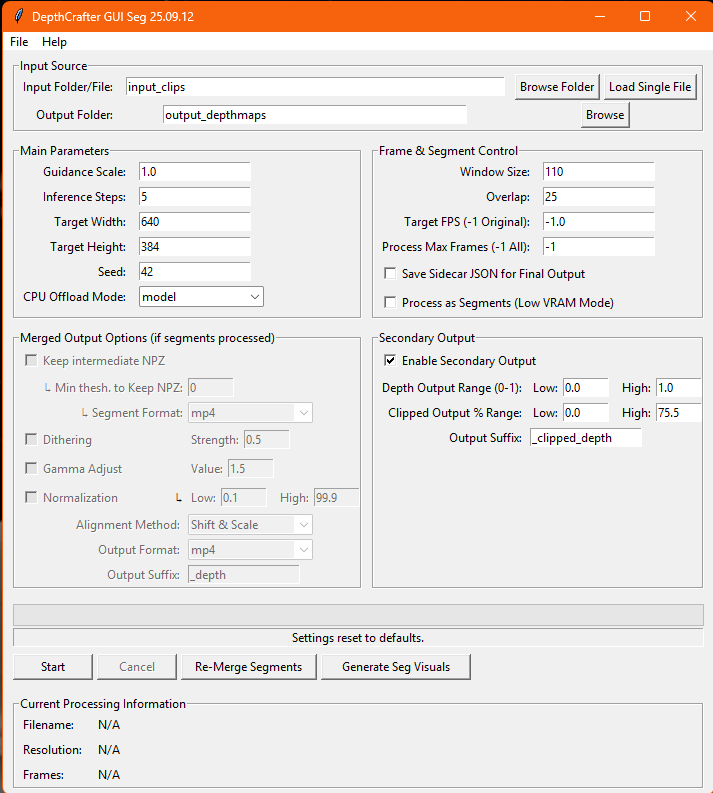
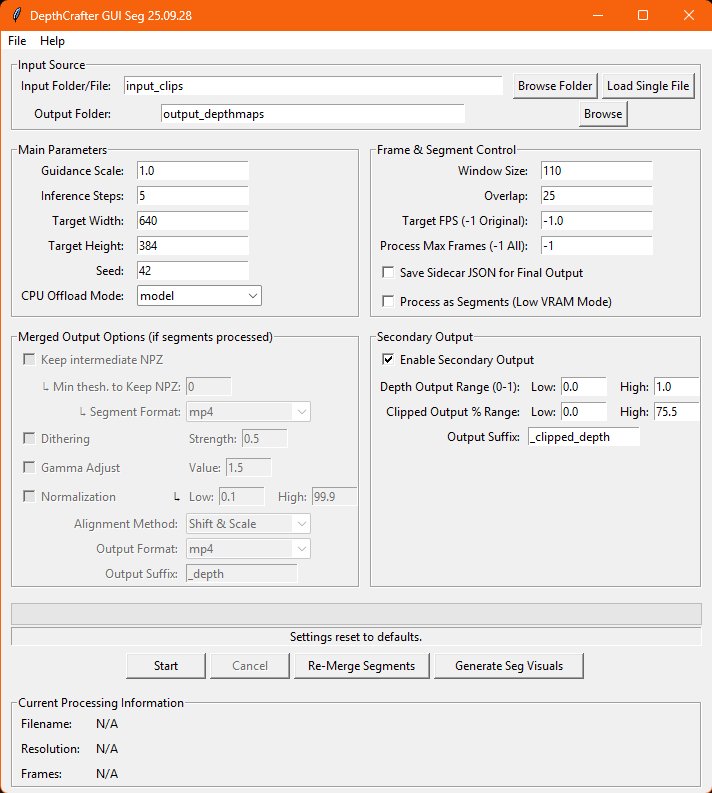
center buttons

diff --git a/depthcrafter_gui_seg.py b/depthcrafter_gui_seg.py
@@ -54,7 +54,7 @@ except ImportError:
 
 from typing import Optional, Tuple, List, Dict
 
-GUI_VERSION = "25.09.12"
+GUI_VERSION = "25.09.28"
 _HELP_TEXTS = {}
 
 def _create_hover_tooltip(widget, help_key):
@@ -612,6 +612,10 @@ class DepthCrafterGUI:
         ctrl_frame = tk.Frame(self.root)
         ctrl_frame.pack(pady=(5, 10), padx=10, fill="x", expand=False)
 
+        # --- Container frame for buttons to center them ---
+        button_container_frame = tk.Frame(ctrl_frame)
+        button_container_frame.pack(anchor="center") # Centers the button_container_frame within ctrl_frame
+
         # --- Current Processing Information Frame ---
         processing_info_frame = tk.LabelFrame(self.root, text="Current Processing Information")
         processing_info_frame.pack(fill="x", padx=10, pady=5, expand=False)
@@ -642,22 +646,22 @@ class DepthCrafterGUI:
         _create_hover_tooltip(lbl_frames, "current_frames") # Add tooltip
         row_idx += 1
 
-        start_frame = tk.Frame(ctrl_frame); start_frame.pack(side=tk.LEFT, padx=(0,2))
+        start_frame = tk.Frame(button_container_frame); start_frame.pack(side=tk.LEFT, padx=(0,2))
         self.start_button = tk.Button(start_frame, text="Start", command=self.start_thread, width=10)
         self.start_button.pack(side=tk.LEFT)
         _create_hover_tooltip(self.start_button, "start_button")        
 
-        cancel_frame = tk.Frame(ctrl_frame); cancel_frame.pack(side=tk.LEFT, padx=(2,2))
+        cancel_frame = tk.Frame(button_container_frame); cancel_frame.pack(side=tk.LEFT, padx=(2,2))
         self.cancel_button = tk.Button(cancel_frame, text="Cancel", command=self.stop_processing, width=10, state=tk.DISABLED)
         self.cancel_button.pack(side=tk.LEFT)
         _create_hover_tooltip(self.cancel_button, "cancel_button")
 
-        remerge_frame = tk.Frame(ctrl_frame); remerge_frame.pack(side=tk.LEFT, padx=(2,2))
+        remerge_frame = tk.Frame(button_container_frame); remerge_frame.pack(side=tk.LEFT, padx=(2,2))
         self.remerge_button = tk.Button(remerge_frame, text="Re-Merge Segments", command=self.re_merge_from_gui, width=18)
         self.remerge_button.pack(side=tk.LEFT)
         _create_hover_tooltip(self.remerge_button, "remerge_button")
 
-        genvis_frame = tk.Frame(ctrl_frame); genvis_frame.pack(side=tk.LEFT, padx=(2,2))
+        genvis_frame = tk.Frame(button_container_frame); genvis_frame.pack(side=tk.LEFT, padx=(2,2))
         self.generate_visuals_button = tk.Button(genvis_frame, text="Generate Seg Visuals", command=self.generate_segment_visuals_from_gui, width=20)
         self.generate_visuals_button.pack(side=tk.LEFT)
         _create_hover_tooltip(self.generate_visuals_button, "generate_visuals_button")
